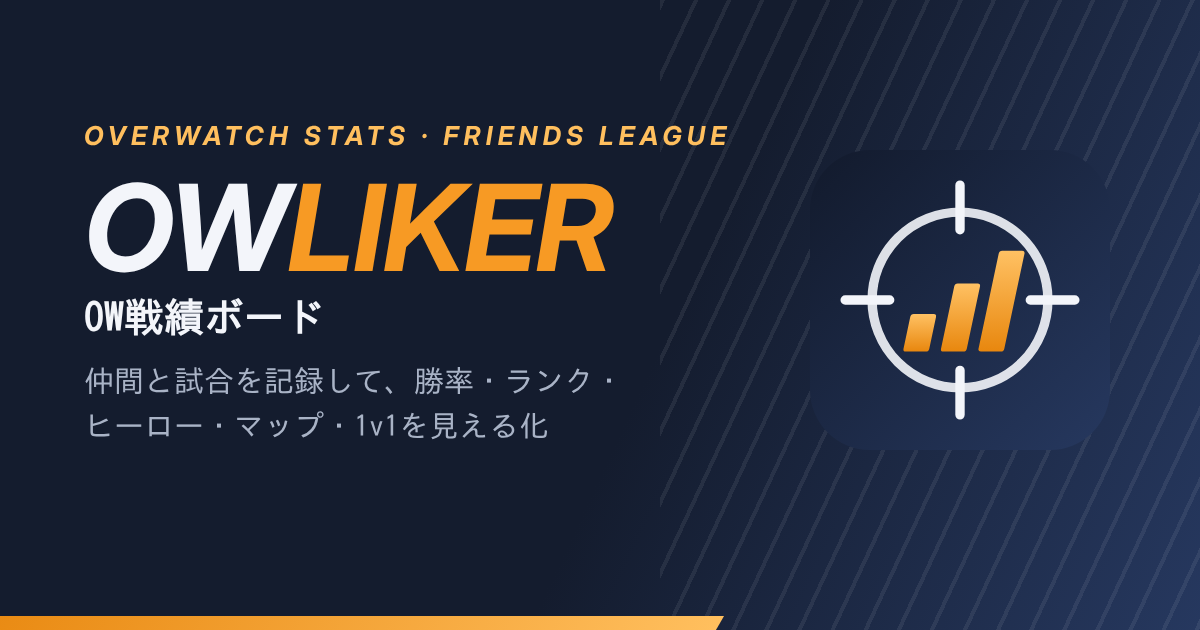
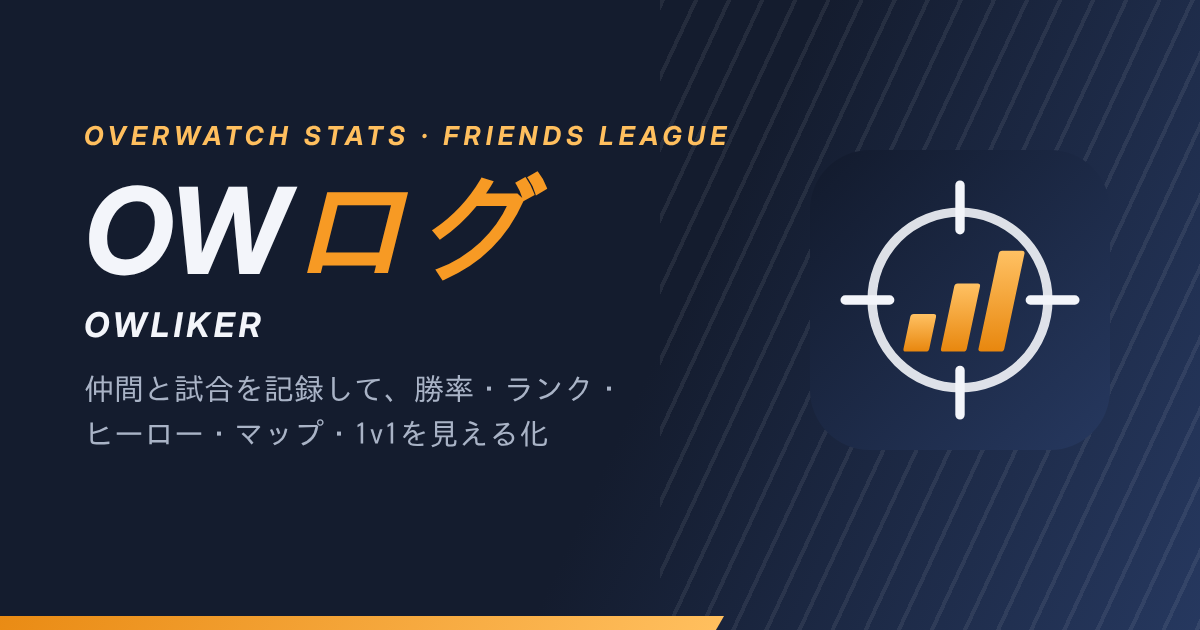
Rename the board to OWログ
Claude-Session: https://claude.ai/code/session_01BaQDJ26FG1woogByXdh3zz

diff --git a/index.html b/index.html
@@ -4,15 +4,15 @@
 <meta charset="utf-8">
 <meta name="viewport" content="width=device-width, initial-scale=1, viewport-fit=cover">
 <!-- ===== サイトの名前・説明(ここを書き換えると、Google検索やLINEで共有したときの表示が変わります) ===== -->
-<title>OWLIKER｜オーバーウォッチの戦績を仲間と記録・ランキング</title>
-<meta name="description" content="オーバーウォッチの試合結果を仲間と記録して、勝率・ランク・ヒーロー・マップ・1v1の成績をランキングで見られる無料の戦績ボード。Googleでログインして、スクワッドの仲間だけで共有できます。">
-<meta property="og:title" content="OWLIKER - OW戦績ボード">
+<title>OWログ｜オーバーウォッチの戦績を仲間と記録・ランキング</title>
+<meta name="description" content="OWログは、オーバーウォッチの試合結果を仲間と記録して、勝率・ランク・ヒーロー・マップ・1v1の成績をランキングで見られる無料の戦績ボード。Googleでログインして、スクワッドの仲間だけで共有できます。">
+<meta property="og:title" content="OWログ">
 <meta property="og:description" content="仲間と試合を記録して、勝率・ランク・ヒーロー・マップ・1v1を見える化">
 <!-- ===== ここまで ===== -->
 <meta property="og:type" content="website">
 <meta property="og:url" content="https://owliker.web.app/">
 <meta property="og:image" content="https://owliker.web.app/icons/og-image.png">
-<meta property="og:site_name" content="OWLIKER">
+<meta property="og:site_name" content="OWログ">
 <meta name="twitter:card" content="summary_large_image">
 <link rel="canonical" href="https://owliker.web.app/">
 <link rel="manifest" href="manifest.json">
@@ -22,7 +22,7 @@
 <meta name="apple-mobile-web-app-capable" content="yes">
 <meta name="mobile-web-app-capable" content="yes">
 <meta name="apple-mobile-web-app-status-bar-style" content="black-translucent">
-<meta name="apple-mobile-web-app-title" content="OWLIKER">
+<meta name="apple-mobile-web-app-title" content="OWログ">
 <script src="firebase-config.js"></script>
 <script>if ("serviceWorker" in navigator) addEventListener("load", () => navigator.serviceWorker.register("sw.js").catch(() => {}));</script>
 <link rel="preconnect" href="https://fonts.googleapis.com">
@@ -557,7 +557,7 @@ th { text-transform: uppercase; letter-spacing: .04em; font-size: 11px; }
   <header class="topbar">
     <div class="tb-text">
       <span class="eyebrow">OWLIKER · FRIENDS LEAGUE</span>
-      <h1>OW<span>戦績</span>ボード</h1>
+      <h1>OW<span class="nt">ログ</span></h1>
       <p class="sub">みんなで試合結果を記録して、勝率・ランク・ヒーロー・マップの成績をいっしょに見るページ</p>
     </div>
     <div class="lang" id="langSeg" role="group" aria-label="Language">
@@ -2404,7 +2404,7 @@ th { text-transform: uppercase; letter-spacing: .04em; font-size: 11px; }
     [/友達にも同じ合言葉「(.+)」を入れてもらうと、このグループの記録を一緒に見られます。/g, ["Have friends enter the same passphrase \"$1\" to share this group's records.", "친구에게도 같은 암호 \"$1\"를 입력하게 하면 이 그룹의 기록을 함께 볼 수 있습니다."]],
     [/相手チームのヒーローを選ぶ\((\d+)\/6\)/g, ["Pick enemy heroes ($1/6)", "상대 팀 영웅 선택($1/6)"]],
     [/味方のヒーローを選ぶ\((\d+)\/(\d+)\)/g, ["Pick ally heroes ($1/$2)", "아군 영웅 선택($1/$2)"]],
-    [/^コード「(.+)」の仲間だけの戦績ボード。招待リンクで仲間を呼べます。$/g, ["Squad \"$1\" — a board just for your crew. Bring friends in with the invite link.", "코드 \"$1\" 친구들만의 전적 보드. 초대 링크로 친구를 부르세요."]],
+    [/^コード「(.+)」の仲間だけのOWログ。招待リンクで仲間を呼べます。$/g, ["Squad \"$1\" — a board just for your crew. Bring friends in with the invite link.", "코드 \"$1\" 친구들만의 전적 보드. 초대 링크로 친구를 부르세요."]],
     [/まだ選ばれていません\(最大(\d+)体\)/g, ["None picked yet (up to $1)", "아직 선택하지 않음(최대 $1명)"]],
     [/^(.+)は勝率(\d+%)で、全体\((\d+%)\)より低めです。$/g, ["$1: $2 win rate, lower than overall ($3).", "$1 승률은 $2로 전체($3)보다 낮습니다."]],
     [/(\d+)勝/g, ["$1W ", "$1승 "]], [/(\d+)敗/g, ["$1L ", "$1패 "]], [/(\d+)分/g, ["$1D ", "$1무 "]],
@@ -2466,7 +2466,7 @@ th { text-transform: uppercase; letter-spacing: .04em; font-size: 11px; }
   const colPath = n => group.id ? `groups/${group.id}/${n}` : n;
   function showGroup() {
     $("gName").textContent = group.id ? group.name : "OPEN LOBBY";
-    $("gHint").textContent = group.id ? `コード「${group.name}」の仲間だけの戦績ボード。招待リンクで仲間を呼べます。` : "だれでも入れる共通ロビー。コードを決めて JOIN すると、仲間だけのスクワッドができます。";
+    $("gHint").textContent = group.id ? `コード「${group.name}」の仲間だけのOWログ。招待リンクで仲間を呼べます。` : "だれでも入れる共通ロビー。コードを決めて JOIN すると、仲間だけのスクワッドができます。";
     $("gLeave").hidden = !group.id;
   }
   function connect() {

diff --git a/sw.js b/sw.js
@@ -1,6 +1,6 @@
 // オフラインでも最後に開いた画面を出すための小さなサービスワーカー。
 // 自分のサイトのファイルだけを扱い、Firebase(ログイン・データ)には触らない。
-const CACHE = "ow-board-v2";
+const CACHE = "ow-board-v3";
 self.addEventListener("install", e => { self.skipWaiting(); e.waitUntil(caches.open(CACHE).then(c => c.addAll(["/", "/manifest.json", "/icons/icon-192.png"]))); });
 self.addEventListener("activate", e => { e.waitUntil(caches.keys().then(ks => Promise.all(ks.filter(k => k !== CACHE).map(k => caches.delete(k)))).then(() => self.clients.claim())); });
 self.addEventListener("fetch", e => {
